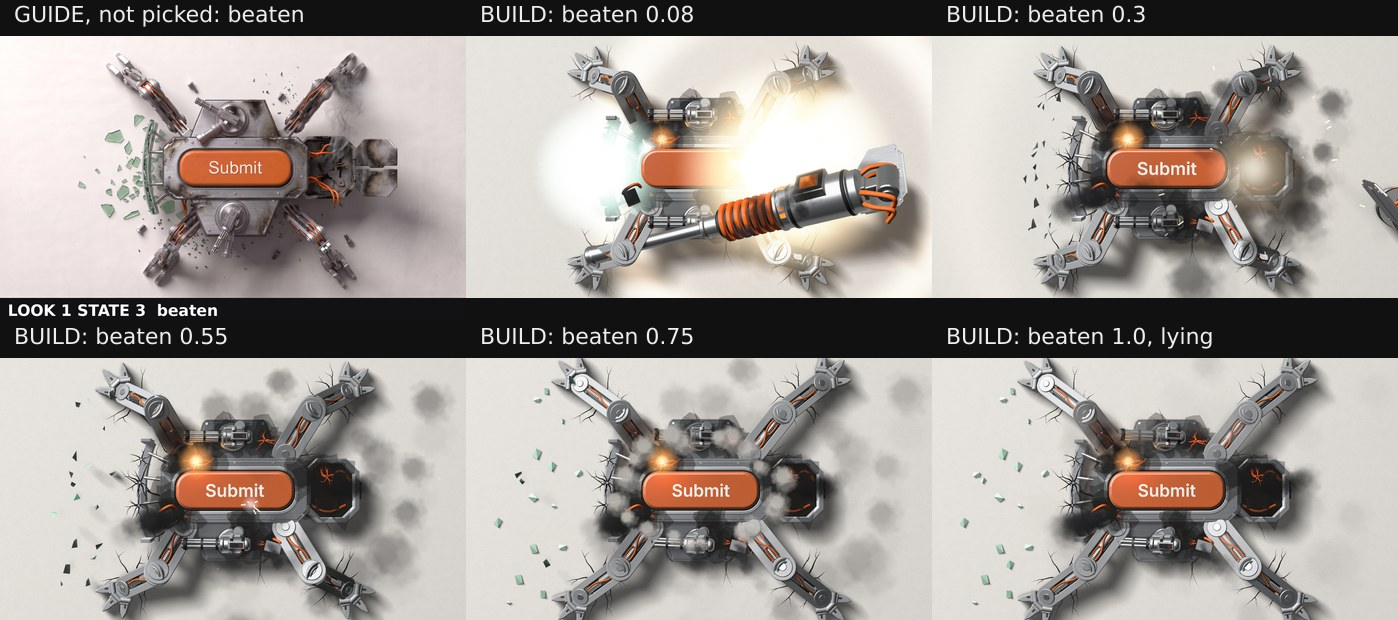
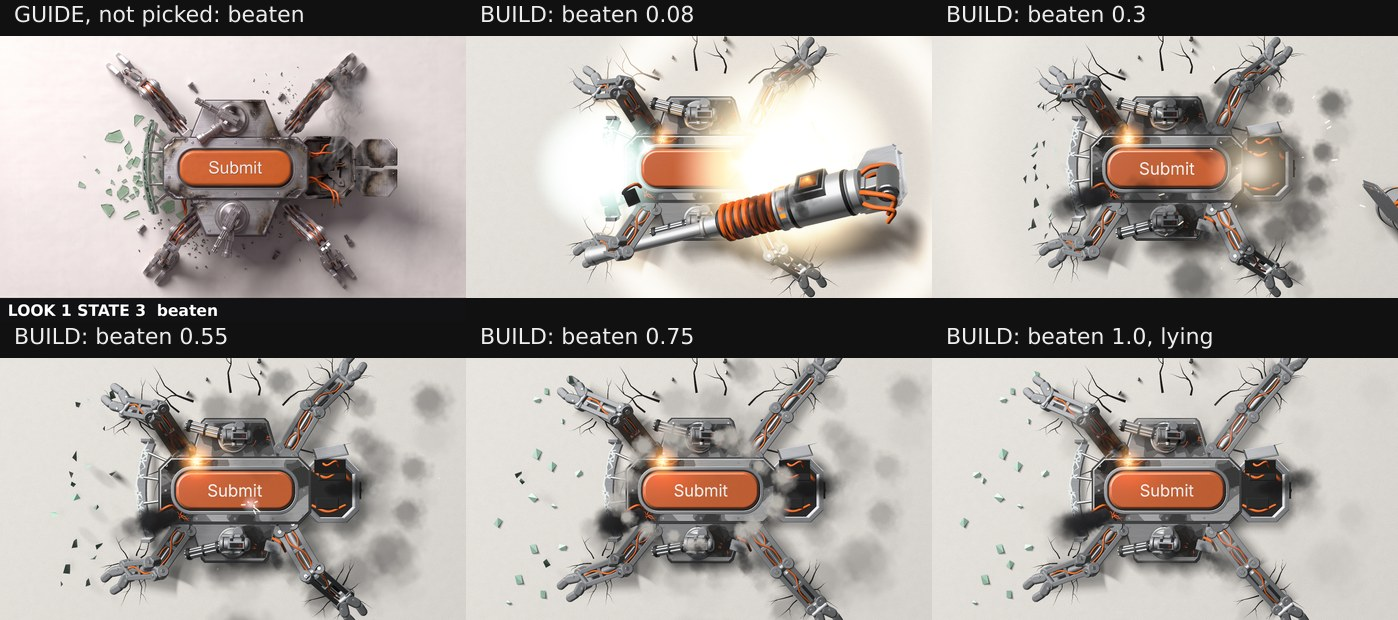
bosslook: no shadow of a hull that has left, scorch leaves with the plates, finish sheets

diff --git a/src/boss/look1/shade.ts b/src/boss/look1/shade.ts
@@ -117,7 +117,7 @@ export function makeShade(): Shade {
     material.opacity = (1 - SHADE.dark) * fade
     const [ox, oy] = world(p.body.x + p.hull.x, p.body.y + p.hull.y)
     const [sx, sy2] = at(ox, oy, high)
-    body.visible = p.hull.show && gone > 0.5 && Math.min(p.wings[0]!, p.wings[1]!) > 0.5
+    body.visible = p.hull.show && gone >= 1 && Math.min(p.wings[0]!, p.wings[1]!) > 0.5
     body.position.set(sx, sy2, 0.4)
     body.rotation.z = p.body.yaw
     p.legs.forEach((l, i) => {

diff --git a/src/boss/look1/index.ts b/src/boss/look1/index.ts
@@ -194,7 +194,7 @@ function apply(m: Model, legsRoot: THREE.Group, p: Pose): void {
   m.lids.forEach((l, i) => { l.position.y = (i === 0 ? -1 : 1) * 17 * p.weakOpen })
   m.slab.visible = p.weakOpen > 0
   m.hatchSeam.visible = p.weakOpen < 0.5
-  const burnt = p.away.hull > 0
+  const burnt = p.gone > 0.08
   m.damage[0].visible = p.damage >= 1 && !burnt
   m.damage[1].visible = p.damage >= 2 && !burnt
   m.damage[2].visible = p.damage >= 3 && !burnt
